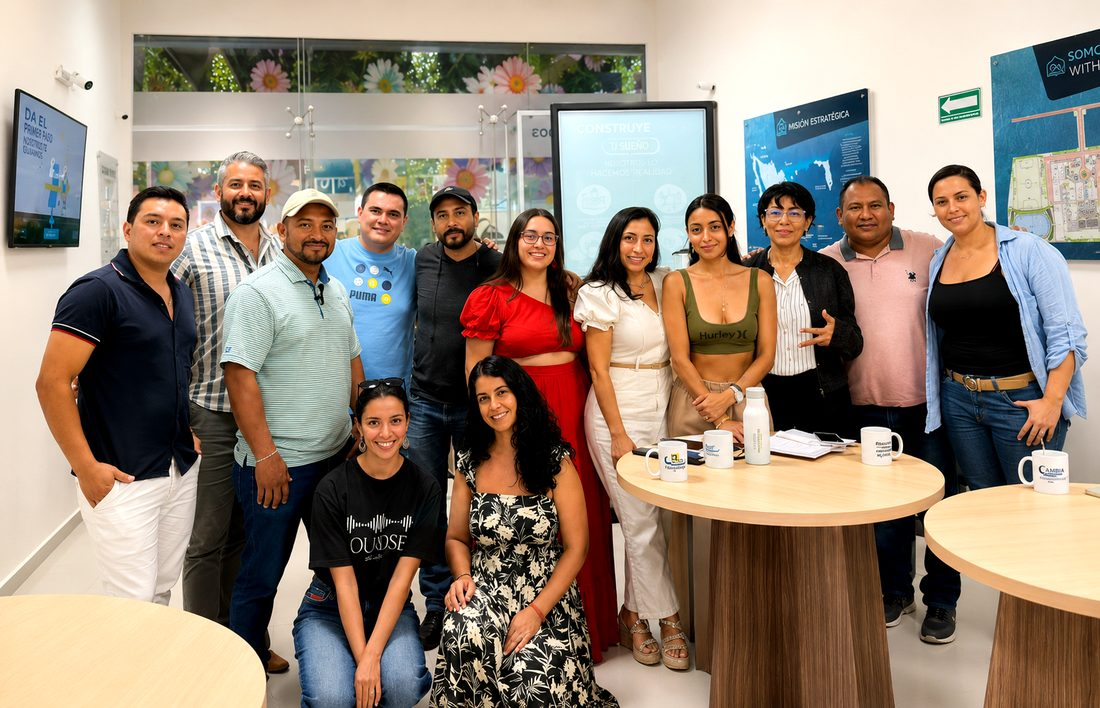
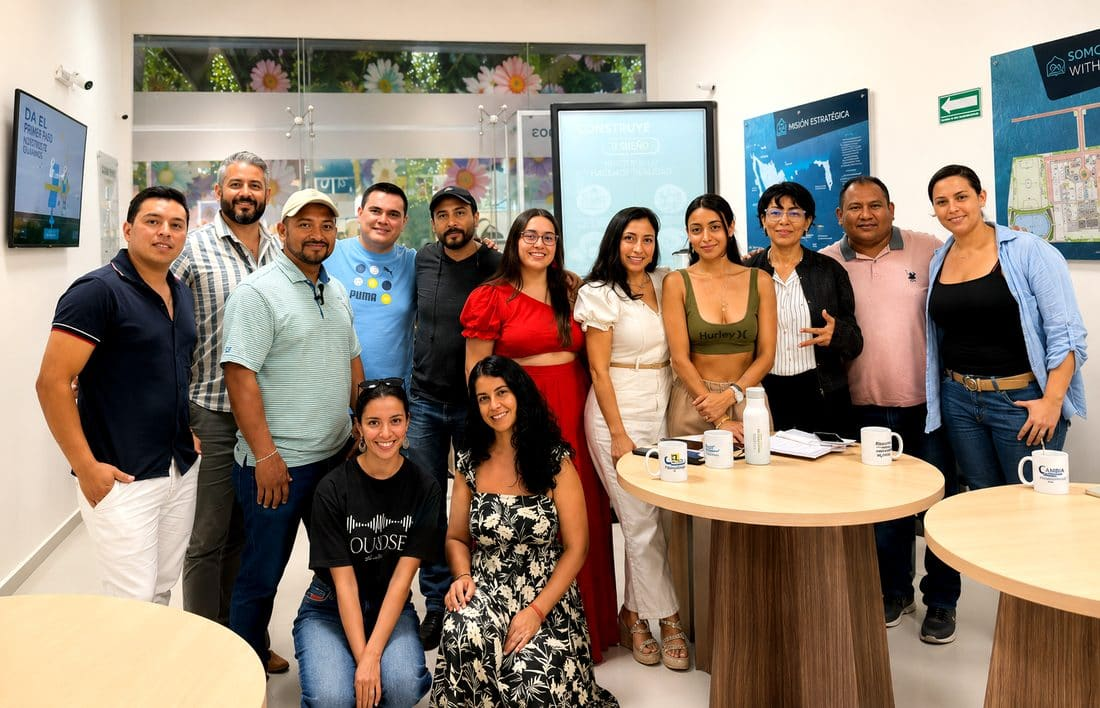
perf(img): WebP para las fotos del Home y JPG de respaldo mas ligeros
- <picture> con WebP (hero q80, grupo q72) y el JPG como respaldo
- Grupo 1600: 287KB -> 152KB en WebP; 1100: 160KB -> 90KB
- Hero 1600: 106KB -> 54KB; JPG de respaldo del grupo recomprimidos (mozjpeg q78)
- Misma resolucion; comparado a ojo sin diferencia visible

Hallazgo #10 de la auditoria SEO. Hecho con sharp fuera del proyecto
(sin dependencias nuevas en package.json).

diff --git a/src/pages/Home.jsx b/src/pages/Home.jsx
@@ -80,13 +80,20 @@ export default function Home() {
           </div>
 
           <figure className="t-hero-fig">
-            <img
-              src="/taller-hero-1600.jpg"
-              srcSet="/taller-hero-700.jpg 700w, /taller-hero-1000.jpg 1000w, /taller-hero-1600.jpg 1600w"
-              sizes="(max-width: 900px) 100vw, 52vw"
-              alt="Irving de los Santos impartiendo un taller sobre herramientas digitales aplicadas a negocios, con un análisis de mercado proyectado en pantalla."
-              width="1600" height="900" loading="eager" decoding="async"
-            />
+            <picture>
+              <source
+                type="image/webp"
+                srcSet="/taller-hero-700.webp 700w, /taller-hero-1000.webp 1000w, /taller-hero-1600.webp 1600w"
+                sizes="(max-width: 900px) 100vw, 52vw"
+              />
+              <img
+                src="/taller-hero-1600.jpg"
+                srcSet="/taller-hero-700.jpg 700w, /taller-hero-1000.jpg 1000w, /taller-hero-1600.jpg 1600w"
+                sizes="(max-width: 900px) 100vw, 52vw"
+                alt="Irving de los Santos impartiendo un taller sobre herramientas digitales aplicadas a negocios, con un análisis de mercado proyectado en pantalla."
+                width="1600" height="900" loading="eager" decoding="async"
+              />
+            </picture>
             <figcaption>Taller para dueños de negocio · Playa del Carmen</figcaption>
           </figure>
         </div>
@@ -183,13 +190,20 @@ export default function Home() {
             </div>
 
             <figure className="t-grupo">
-              <img
-                src="/taller-grupo-1600.jpg"
-                srcSet="/taller-grupo-760.jpg 760w, /taller-grupo-1100.jpg 1100w, /taller-grupo-1600.jpg 1600w"
-                sizes="(max-width: 900px) 100vw, 55vw"
-                alt="Grupo de participantes al terminar un taller para dueños de negocio impartido por Cognitia."
-                width="1564" height="1006" loading="lazy" decoding="async"
-              />
+              <picture>
+                <source
+                  type="image/webp"
+                  srcSet="/taller-grupo-760.webp 760w, /taller-grupo-1100.webp 1100w, /taller-grupo-1600.webp 1600w"
+                  sizes="(max-width: 900px) 100vw, 55vw"
+                />
+                <img
+                  src="/taller-grupo-1600.jpg"
+                  srcSet="/taller-grupo-760.jpg 760w, /taller-grupo-1100.jpg 1100w, /taller-grupo-1600.jpg 1600w"
+                  sizes="(max-width: 900px) 100vw, 55vw"
+                  alt="Grupo de participantes al terminar un taller para dueños de negocio impartido por Cognitia."
+                  width="1564" height="1006" loading="lazy" decoding="async"
+                />
+              </picture>
               <figcaption>
                 Cierre de uno de los talleres para dueños de negocio. Las personas de la foto
                 asistieron a la sesión.

diff --git a/src/styles/taller.css b/src/styles/taller.css
@@ -119,6 +119,7 @@
 .t-micro{font-size:14px;color:var(--tinta-2);margin-top:20px;max-width:46ch;line-height:1.6}
 
 .t-hero-fig{margin:0}
+.t-hero-fig picture,.t-grupo picture{display:block}
 .t-hero-fig img{
   width:100%;border-radius:var(--radio);
   border:1px solid var(--borde);
